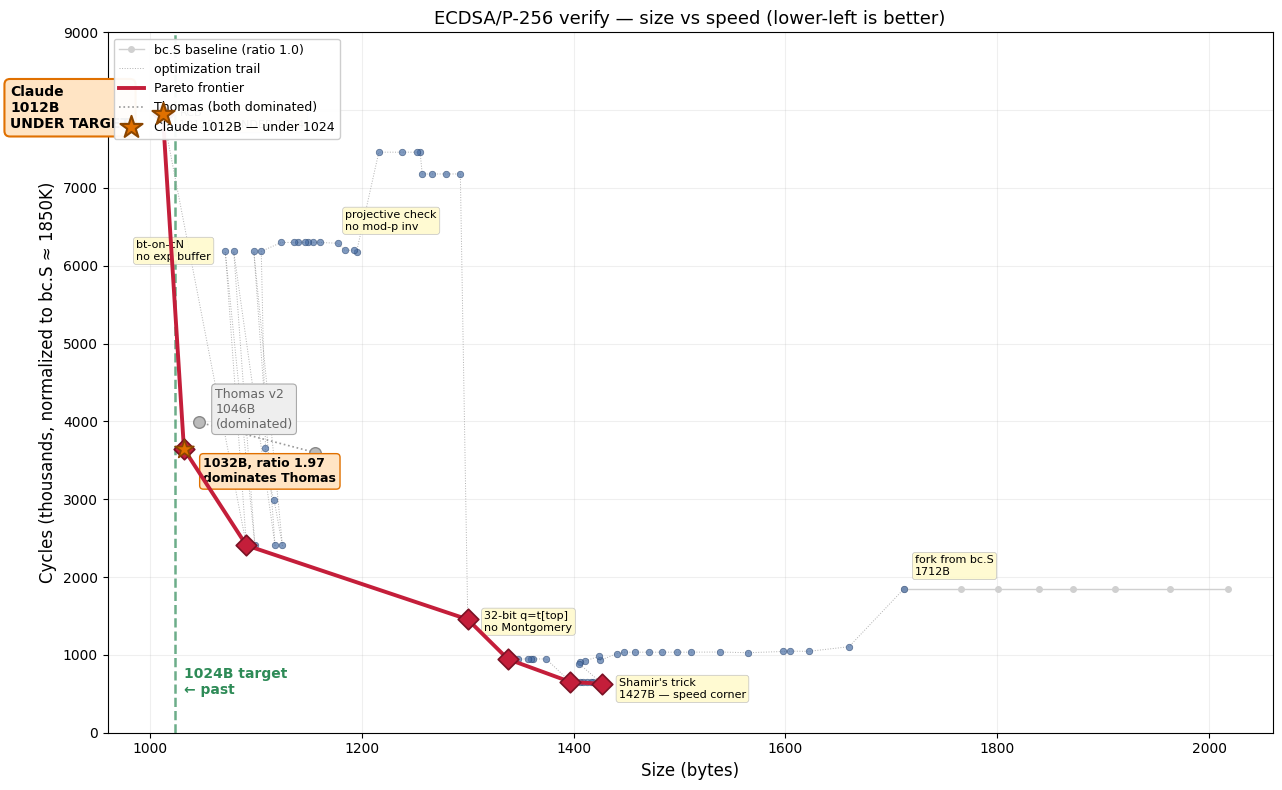
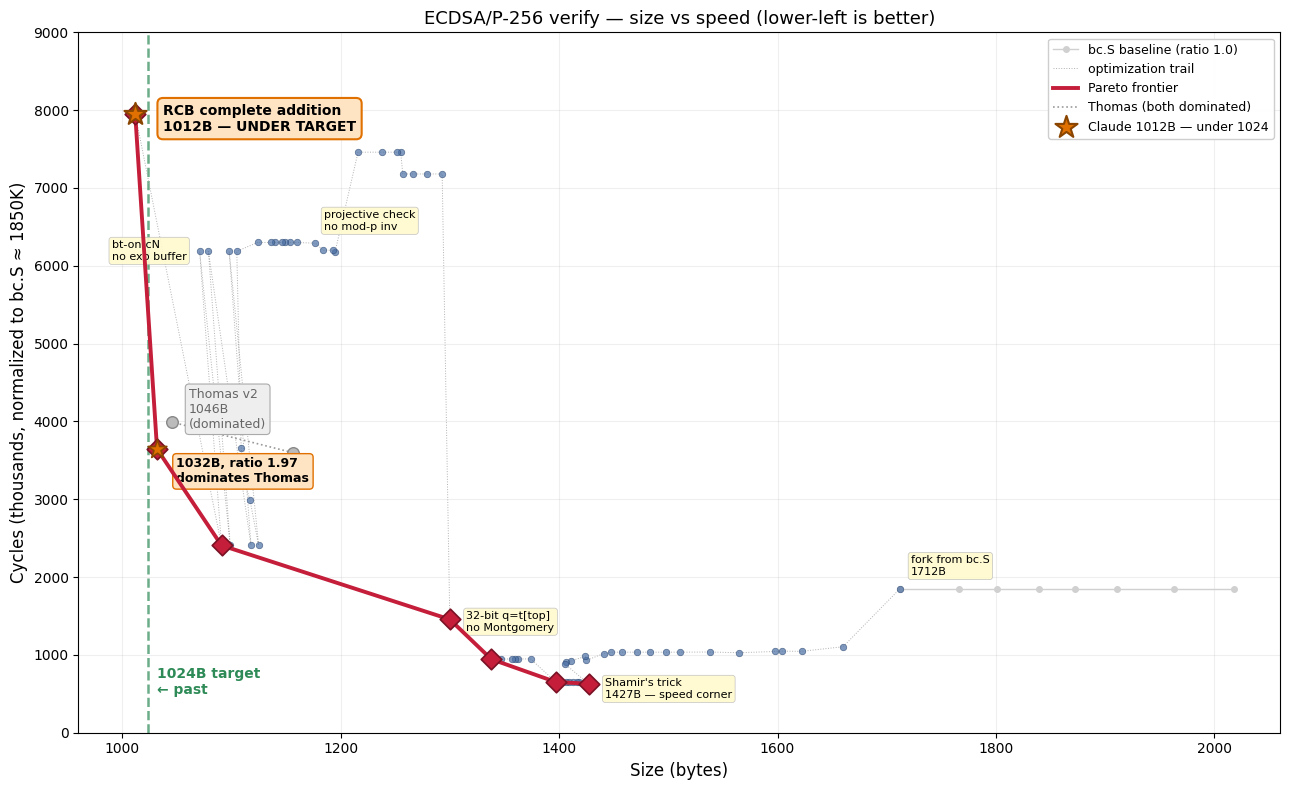
Chart: de-overlap labels, legend to top-right
1012B point: one orange box (not two overlapping).  Legend
moved right so it doesn't sit on the size-floor star.

diff --git a/docs/plot_history.py b/docs/plot_history.py
@@ -47,7 +47,7 @@ TRAIL = [
     (1071, 6186, None),   # SMALL_MUL8
     (1091, 2407, None),
     # --- RCB COMPLETE ADDITION — one formula, no 3-way branch (−59B) ---
-    (1012, 7950, "RCB\n1012B — UNDER 1024"),  # SMALL_MUL8 size floor
+    (1012, 7950, None),   # SMALL_MUL8 — labeled via CLAUDE star
     (1032, 3645, None),   # default — CLAUDE star
 ]
 
@@ -107,8 +107,8 @@ CLAUDE_FAST = (1032, 3645)  # dominates Thomas v2 on both axes
 ax.scatter([CLAUDE[0]], [CLAUDE[1]], c='#e07000', s=280, marker='*',
            edgecolors='#8a4500', linewidths=1.5, zorder=6,
            label=f'Claude {CLAUDE[0]}B — under 1024')
-ax.annotate(f'Claude\n{CLAUDE[0]}B\nUNDER TARGET',
-            CLAUDE, textcoords="offset points", xytext=(-110, -10),
+ax.annotate(f'RCB complete addition\n{CLAUDE[0]}B — UNDER TARGET',
+            CLAUDE, textcoords="offset points", xytext=(20, -12),
             fontsize=10, fontweight='bold',
             bbox=dict(boxstyle='round,pad=0.4', fc='#ffe4c4',
                       ec='#e07000', lw=1.5))
@@ -148,7 +148,7 @@ ax.set_xlabel('Size (bytes)', fontsize=12)
 ax.set_ylabel('Cycles (thousands, normalized to bc.S ≈ 1850K)', fontsize=12)
 ax.set_title('ECDSA/P-256 verify — size vs speed (lower-left is better)',
              fontsize=13)
-ax.legend(loc='upper left', framealpha=0.95, fontsize=9)
+ax.legend(loc='upper right', framealpha=0.95, fontsize=9)
 ax.grid(True, alpha=0.2)
 ax.set_axisbelow(True)
 ax.set_xlim(960, 2060)
